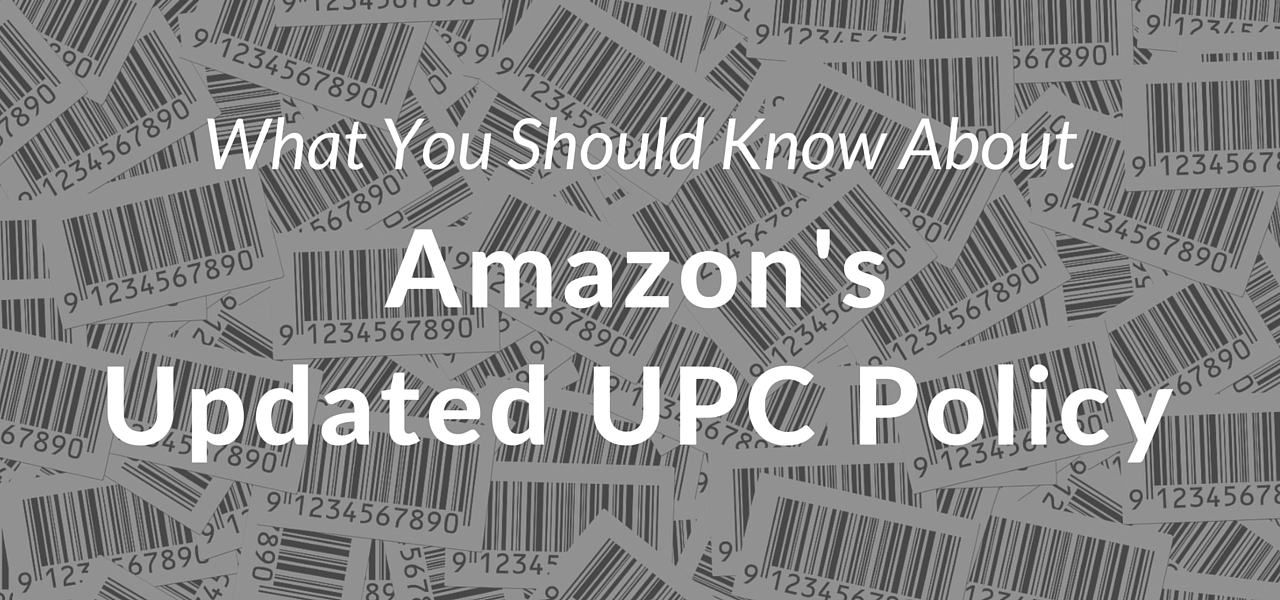
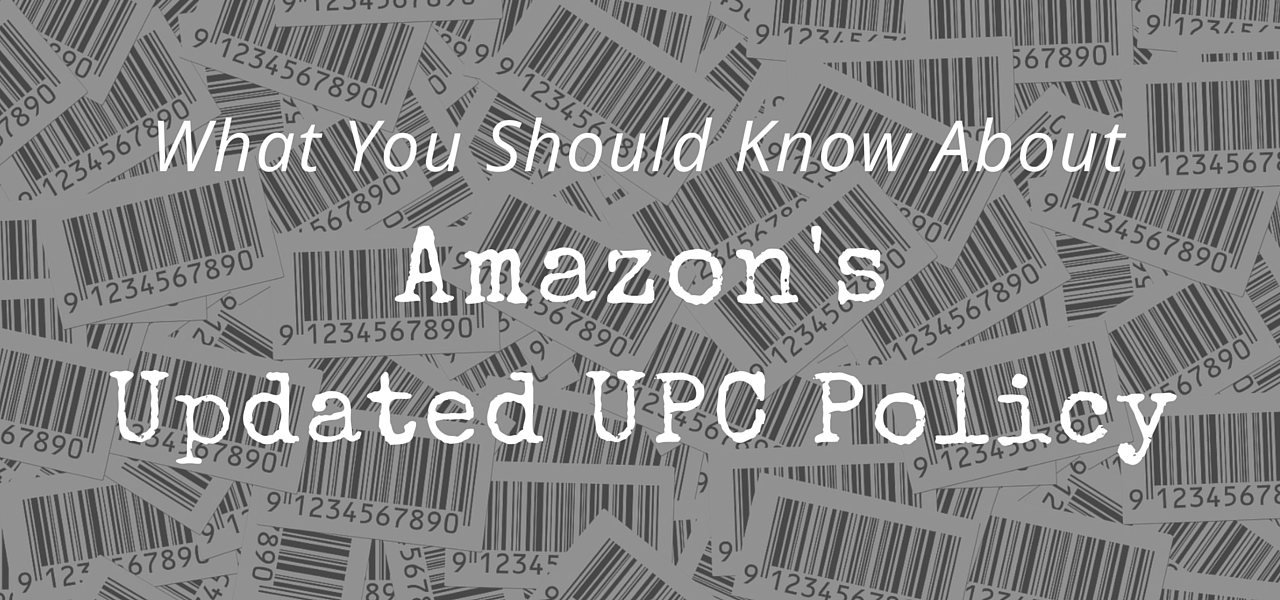
Made images pretty

Changed region(s): [[0.0625, 0.6, 0.9062, 0.78], [0.125, 0.18, 0.875, 0.3], [0.2812, 0.36, 0.6875, 0.51]]

diff --git a/content/blog/2016-03-28-automate-vat-eu.md b/content/blog/2016-03-28-automate-vat-eu.md
@@ -2,7 +2,7 @@ Title: Automating your VAT Invoices for Amazon EU
 Date: 2016-03-28 04:30PM
 Author: Bernie T.
 Category: Efficient Era
-Image: tax.png
+Image: automating-vat.jpg
 Summary: Still spending hours creating VAT invoices by hand? Look no further, we can help.
 Tags: vat, vat invoice, tax, taxes, invoice
 Status: published
@@ -20,10 +20,9 @@ Customers are happy to get their invoice right away, without having to plead wit
 We’re excited to be able to make this same tool available to you.  The customer facing side is visible at:
 [http://vat.efficientera.com/](http://vat.efficientera.com/)
 
-And you can read more about how to sign up and use the tool from the sellers’ perspective at:
-[https://efficientera.com/pages/accounting/vat-tool.html](https://efficientera.com/pages/accounting/vat-tool.html)
+And you can read more about how to sign up and use the tool from the sellers’ perspective at [this page](https://efficientera.com/pages/accounting/vat-tool.html).
 
 We hope this tool can help you deal with the burdens of European VAT invoicing more efficiently.  If you have any questions or requests at all, please feel free to comment below or email us at
 [support@efficientera.com](mailto:support@efficientera.com)
 
-This VAT invoice tool is part of Efficient Era’s larger set of power tools for power sellers on Amazon, so please do check out everything else we have to offer when you sign up.  Thank you!
+This VAT invoice tool is part of Efficient Era’s larger set of power tools for power sellers on Amazon, so please do check out everything else we have to offer when you sign up. Thank you!

diff --git a/content/blog/seo_part_2.md b/content/blog/seo_part_2.md
@@ -81,7 +81,7 @@ When it comes to images, quality is certainly favored over quantity. Many #1 lis
 
 If you're already an Amazon vendor, you probably know all about Fulfillment by Amazon, or FBA. Amazon does *not* directly consider fulfillment method in its ranking algorithm. That being said, there are a lot of related factors that Amazon *does* consider. These include order processing speed, reliability of shipping, in-stock rate and many more shipping-related metrics. Implementing FBA will help improve most of these factors.
 
-If you’re already using FBA, great. A lot of extra SEO benefits apply to you. If you aren’t using it, you likely have your reasons, but consider the benefits mentioned above. FBA could help your SEO efforts out quite a bit.
+If you’re already using FBA, great. A lot of extra SEO benefits apply to you. If you aren’t using it, you likely have your reasons, but [you should consider it](https://efficientera.com/blog/2016/07/why-you-should-be-using-fulfillment-by-amazon-fba.html). FBA could help your SEO efforts, as well as your business in general, quite a bit.
 
 
 ### Conclusion

diff --git a/content/blog/negative-reviews-help.md b/content/blog/negative-reviews-help.md
@@ -2,7 +2,7 @@ Title: How Negative Reviews Can Help Your Product Listings
 Author: Bruce O.
 Category: Feedback Loop
 Date: 2016-06-29 14:00
-Image: thumbs-down.jpg
+Image: negative-reviews-help.jpg
 Tags: Feedback Loop, Negative Feedback, Amazon 
 Summary: As with anything in life, you need to take the bad with the good. Reviews are no exception - read about how negative reviews are actually important for your business here.
 Status: published

diff --git a/content/blog/guide-seller-feedback.md b/content/blog/guide-seller-feedback.md
@@ -2,7 +2,7 @@ Title: A Guide to Seller Feedback
 Author: Bruce O.
 Category: Feedback Loop
 Date: 2016-06-27 14:00
-Image: feedback-bubble.jpg
+Image: guide-seller-feedback.jpg
 Tags: Feedback Loop, Amazon, Seller Feedback
 Summary: Seller feedback: what is it actually doing for you, and how can you use it to your advantage? Read about it here.
 Status: published
